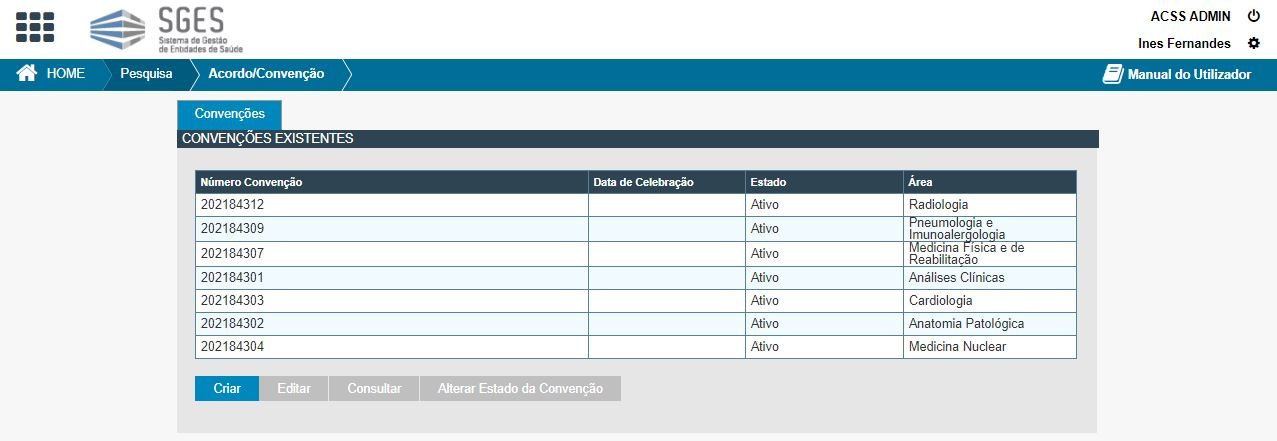
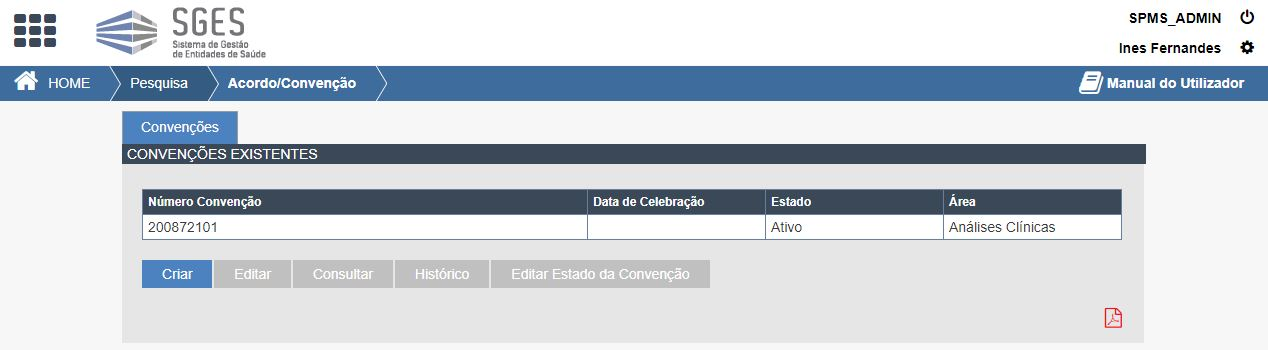
alteracoes qualidade

diff --git a/SGES_Manual_Utilizador/Indice.html b/SGES_Manual_Utilizador/Indice.html
@@ -235,12 +235,12 @@
 								    <li>
 									   <a href="#contratos-de-manuteno">14.1.5 - Contratos de Manutenção</a>
 								    </li>
-								   <!-- <li>
+								   <li>
 									   <a href="#avaliao-ps-ocupao">14.1.6 - Avaliação Pós-Ocupação</a>
 								    </li>
 								    <li>
 									   <a href="#acao-acss" ">14.1.7 - Ações ACSS</a>
-								    </li> -->
+								    </li>
 								 </ul>
 								 </li>
 					 	         <li>
@@ -261,50 +261,40 @@
 							<a href="#aconvencao">15 - Acordos e Convenções </a>
 						</li>
 						<li>
+							 <div href="#registaAconvencao">15.1 - Criar Acordo/Convenção
+							 </div>
+								<ul>
+							  		 <li>
+							     		<a href="#areaConvencionada"> 15.1.1 - Adicionar Área </a>
+							   		</li>
+							  		 <li>
+							    		 <a href="#estabelecimentosConvencionados">15.1.2 - Associar Estabelecimentos </a>
+							  		 </li>
+							  		 <li>
+							    		 <a href="#rhConvencao">15.1.3 - Adicionar Recursos Humanos Técnicos </a>
+							   		</li>
+								</ul>
+							</li>
 						<li>
-							<a href="#pesquisa-convencao">15.1 - Pesquisar Acordo/Convenção</a>
-						</li>
-							 <div href="#registaAconvencao">15.2 - Criar Acordo/Convenção </div>
-							<ul>
-							   <li>
-							     <a href="#areaConvencionada"> 15.2.1 - Adicionar Área </a>
-							   </li>
-							   <li>
-							     <a href="#estabelecimentosConvencionados">15.2.2 - Associar Estabelecimentos </a>
-							   </li>
-							   <li>
-							     <a href="#rhConvencao">15.2.3 - Adicionar Recursos Humanos Técnicos </a>
-							   </li>
-							</ul>
-						</li>
-						<li>
-							<a href="#alteraConvencao">15.3 - Editar Acordo </a>
+							<a href="#alteraConvencao">15.2 - Editar Acordo </a>
 						</li>
 						<li>
-							<a href="#consultaAconvencao">15.4 - Consultar Acordo/Convenção</a>
+							<a href="#consultaAconvencao">15.3 - Consultar Acordo/Convenção</a>
 						</li>
 						<li>
-					     <div href="#alteraEstado"> 15.5 - Alterar Estado </div>
-						<ul>
-							<li>
-							  <a href="#altera-Estado-acordo">15.5.1 - Alterar Estado do Acordo/Convenção</a>
-						    </li>
-						    <li>
-							  <a href="#altera-Estado-valencias">15.5.2 - Alterar Estado das Valências </a>
-						    </li>
-						</ul>
+					     <a href="#alteraEstado"> 15.4 - Alterar Estado </a>
 						</li>
 						<li>
-							<a href="#importar">15.6 - Importar Ficha Técnica </a>
+					     <a href="#historicoConvencao"> 15.5 - Histórico Convenções </a>
 						</li>
 						<li>
-							<a href="#atualizar">15.7 - Importar Atualizações da Ficha Técnica</a>
+					     <a href="#exportar"> 15.6 - Exportar Ficha Técnica </a>
 						</li>
 						<li>
-							<a href="#aprovacoesPendentes">15.8 - Aprovação das Atualizações da Ficha Técnica</a>
+					     <a href="#importar"> 15.7 - Importar Ficha Técnica </a>
 						</li>
 						<li>
-							<a href="#aconvencao">15.9 - Validação das Atualizações da Ficha Técnica </a>
+							<a href="#atualizar">15.8 - Importar Atualizações da Ficha Técnica </a>
 						</li>
 					</ul>
 				</li>
@@ -315,7 +305,7 @@
 							<a href="#listaeqcr">A1. - Equipamentos das instalações elétricas, mecânicas e de águas e esgotos  </a>
 						</li>
 						<li>
-							<a href="#listaperfis">A.2. - Perfis e respetivas permissões  </a>
+							<a href="#listaperfis">A2. - Perfis e respetivas permissões  </a>
 						</li>
 					</ul>
 				</div>
